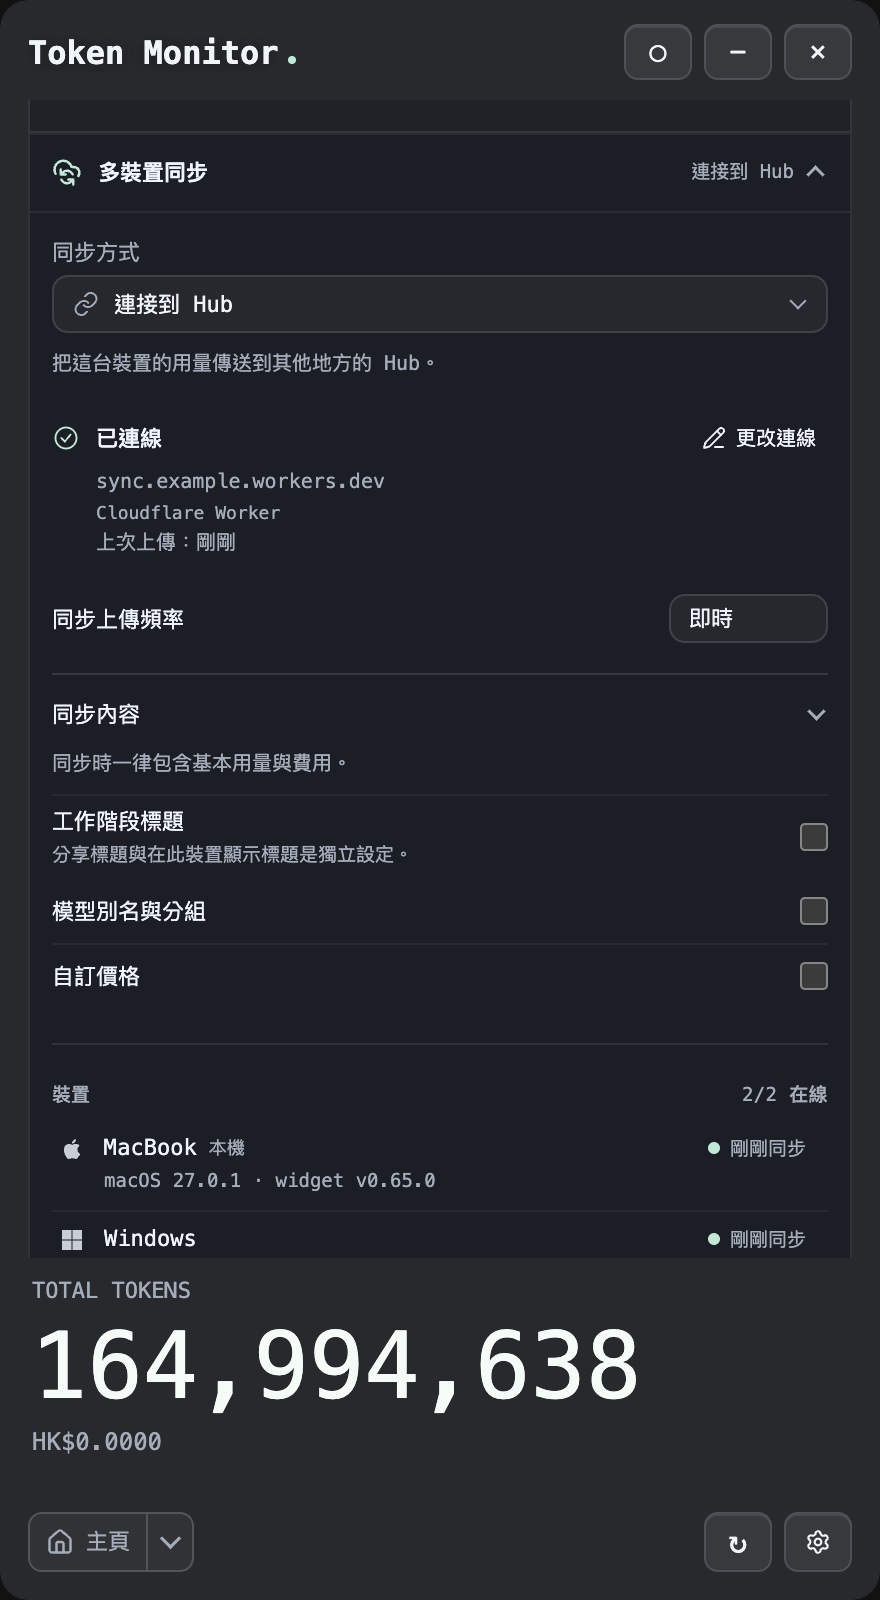
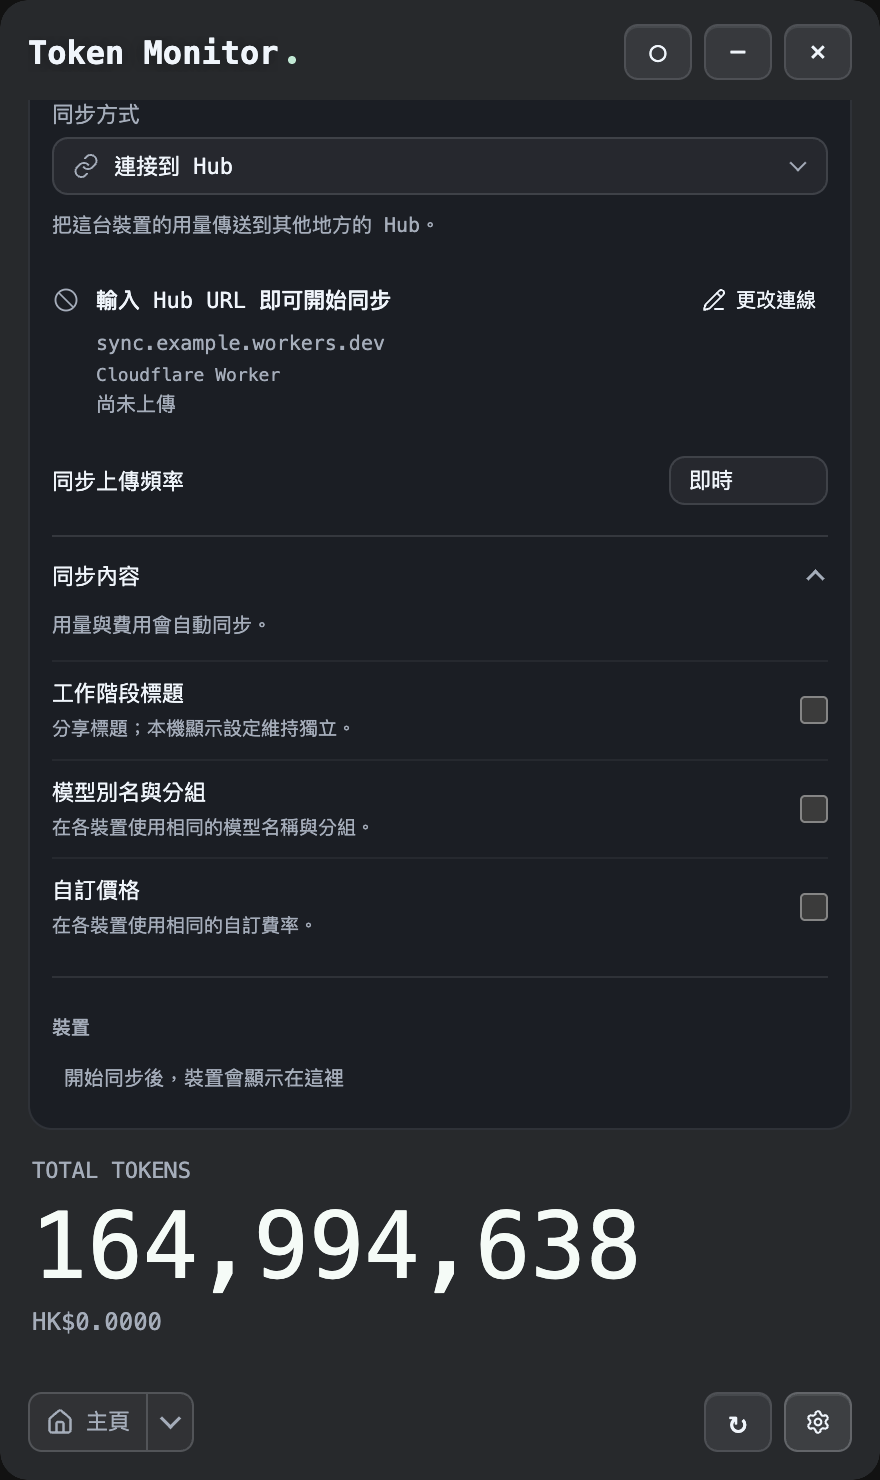
fix(sync): refine sync content settings layout

diff --git a/src/electron/renderer/i18n.js b/src/electron/renderer/i18n.js
@@ -56,7 +56,9 @@
       'settings.sync.hostWarning': 'The hub runs while Token Monitor is running. Quitting (not just closing the window) stops the hub for all connected devices.',
       'settings.sync.deviceId': 'Device ID',
       'settings.sync.deviceIdPlaceholder': 'auto (hostname)',
-      "settings.sync.content.basis": "Basic usage and cost are always included when syncing.",
+      "settings.sync.content.aliasesNote": "Use the same model names and groups on your devices.",
+      "settings.sync.content.pricingNote": "Use the same custom rates on your devices.",
+      "settings.sync.content.basis": "Usage and cost sync automatically.",
       "settings.sync.content.checking": "Checking sync options…",
       "settings.sync.content.chooseSource": "Choose the settings to share. Future edits will sync across devices.",
       "settings.sync.content.cleanupRetry": "Retry title removal",
@@ -72,16 +74,16 @@
       "settings.sync.content.modelAliases": "Model aliases and grouping",
       "settings.sync.content.noShared": "No shared settings yet. Use server settings to wait for a future shared edit, or publish this device's settings.",
       "settings.sync.content.publish": "Publish this device's settings",
-      "settings.sync.content.retry": "Reload sync status",
+      "settings.sync.content.retry": "Check again",
       "settings.sync.content.sessionTitles": "Session titles",
       "settings.sync.content.title": "Sync content",
-      "settings.sync.content.titleNote": "Sharing titles is separate from showing them on this device.",
+      "settings.sync.content.titleNote": "Share titles; local display stays independent.",
       "settings.sync.content.titleUnavailable": "This server does not allow session title sync. Ask its administrator to enable it.",
       "settings.sync.content.titleWarning": "Share session titles?",
       "settings.sync.content.titleWarningBody": "Send session titles to {destination}? Titles may reveal project, client or work information. The server administrator and devices with shared access can read them. Message bodies are never uploaded.",
       "settings.sync.content.unauthorized": "Could not authenticate with the server. Check the saved connection and reload.",
       "settings.sync.content.unreachable": "Could not reach the server. Check your connection and reload.",
-      "settings.sync.content.unsupported": "Optional content sync is unavailable on this server. Update the server, then reload.",
+      "settings.sync.content.unsupported": "Update the server to enable these options.",
       "settings.sync.content.useServer": "Use server settings",
       'settings.sync.uploadInterval': 'Sync upload frequency',
       'settings.sync.uploadInterval.live': 'Live',
@@ -1862,7 +1864,9 @@
       'settings.sync.hostWarning': 'Hub 只會在 Token Monitor 執行時運作。結束程式（不只是關閉視窗）會讓所有連線裝置的 Hub 停止。',
       'settings.sync.deviceId': '裝置 ID',
       'settings.sync.deviceIdPlaceholder': '自動（主機名稱）',
-      "settings.sync.content.basis": "同步時一律包含基本用量與費用。",
+      "settings.sync.content.aliasesNote": "在各裝置使用相同的模型名稱與分組。",
+      "settings.sync.content.pricingNote": "在各裝置使用相同的自訂費率。",
+      "settings.sync.content.basis": "用量與費用會自動同步。",
       "settings.sync.content.checking": "正在檢查同步選項…",
       "settings.sync.content.chooseSource": "選擇要分享的設定。之後的修改會在裝置之間同步。",
       "settings.sync.content.cleanupRetry": "重試移除標題",
@@ -1878,16 +1882,16 @@
       "settings.sync.content.modelAliases": "模型別名與分組",
       "settings.sync.content.noShared": "尚未有共享設定。使用伺服器設定以等待日後的共享修改，或發佈此裝置的設定。",
       "settings.sync.content.publish": "發佈此裝置的設定",
-      "settings.sync.content.retry": "重新載入同步狀態",
+      "settings.sync.content.retry": "重新檢查",
       "settings.sync.content.sessionTitles": "工作階段標題",
       "settings.sync.content.title": "同步內容",
-      "settings.sync.content.titleNote": "分享標題與在此裝置顯示標題是獨立設定。",
+      "settings.sync.content.titleNote": "分享標題；本機顯示設定維持獨立。",
       "settings.sync.content.titleUnavailable": "此伺服器未允許同步工作階段標題。請管理員啟用。",
       "settings.sync.content.titleWarning": "分享工作階段標題？",
       "settings.sync.content.titleWarningBody": "將工作階段標題傳送到 {destination}？標題可能透露專案、客戶或工作資訊。伺服器管理員及具有共享存取權的裝置均可讀取。訊息內文不會上傳。",
       "settings.sync.content.unauthorized": "無法通過伺服器驗證。請檢查已儲存的連線並重新載入。",
       "settings.sync.content.unreachable": "無法連接伺服器。請檢查連線並重新載入。",
-      "settings.sync.content.unsupported": "此伺服器未提供選用內容同步。請更新伺服器後重新載入。",
+      "settings.sync.content.unsupported": "更新伺服器後即可使用這些選項。",
       "settings.sync.content.useServer": "使用伺服器設定",
       'settings.sync.uploadInterval': '同步上傳頻率',
       'settings.sync.uploadInterval.live': '即時',
@@ -3668,7 +3672,9 @@
       'settings.sync.hostWarning': 'Hub 只会在 Token Monitor 运行时工作。退出程序（不只是关闭窗口）会让所有已连接设备的 Hub 停止。',
       'settings.sync.deviceId': '设备 ID',
       'settings.sync.deviceIdPlaceholder': '自动（主机名）',
-      "settings.sync.content.basis": "同步时始终包含基本用量与费用。",
+      "settings.sync.content.aliasesNote": "在各设备使用相同的模型名称与分组。",
+      "settings.sync.content.pricingNote": "在各设备使用相同的自定义费率。",
+      "settings.sync.content.basis": "用量与费用会自动同步。",
       "settings.sync.content.checking": "正在检查同步选项…",
       "settings.sync.content.chooseSource": "选择要共享的设置。之后的修改会在设备之间同步。",
       "settings.sync.content.cleanupRetry": "重试移除标题",
@@ -3684,16 +3690,16 @@
       "settings.sync.content.modelAliases": "模型别名与分组",
       "settings.sync.content.noShared": "尚无共享设置。使用服务器设置以等待之后的共享修改，或发布此设备的设置。",
       "settings.sync.content.publish": "发布此设备的设置",
-      "settings.sync.content.retry": "重新加载同步状态",
+      "settings.sync.content.retry": "重新检查",
       "settings.sync.content.sessionTitles": "会话标题",
       "settings.sync.content.title": "同步内容",
-      "settings.sync.content.titleNote": "共享标题与在此设备显示标题是独立设置。",
+      "settings.sync.content.titleNote": "共享标题；本机显示设置保持独立。",
       "settings.sync.content.titleUnavailable": "此服务器未允许同步会话标题。请管理员启用。",
       "settings.sync.content.titleWarning": "共享会话标题？",
       "settings.sync.content.titleWarningBody": "将会话标题发送到 {destination}？标题可能透露项目、客户或工作信息。服务器管理员及具有共享访问权限的设备均可读取。消息正文不会上传。",
       "settings.sync.content.unauthorized": "无法通过服务器验证。请检查已保存的连接并重新加载。",
       "settings.sync.content.unreachable": "无法连接服务器。请检查连接并重新加载。",
-      "settings.sync.content.unsupported": "此服务器未提供可选内容同步。请更新服务器后重新加载。",
+      "settings.sync.content.unsupported": "更新服务器后即可使用这些选项。",
       "settings.sync.content.useServer": "使用服务器设置",
       'settings.sync.uploadInterval': '同步上传频率',
       'settings.sync.uploadInterval.live': '实时',
@@ -6852,7 +6858,9 @@
       'settings.sync.copyUrl': '{url} 복사',
       'settings.sync.deviceId': '기기 ID',
       'settings.sync.deviceIdPlaceholder': '자동 (호스트명)',
-      "settings.sync.content.basis": "동기화에는 기본 사용량과 비용이 항상 포함됩니다.",
+      "settings.sync.content.aliasesNote": "기기에서 같은 모델 이름과 그룹을 사용합니다.",
+      "settings.sync.content.pricingNote": "기기에서 같은 사용자 지정 요금을 사용합니다.",
+      "settings.sync.content.basis": "사용량과 비용은 자동으로 동기화됩니다.",
       "settings.sync.content.checking": "동기화 옵션 확인 중…",
       "settings.sync.content.chooseSource": "공유할 설정을 선택하세요. 이후 변경 사항은 기기 간에 동기화됩니다.",
       "settings.sync.content.cleanupRetry": "제목 삭제 다시 시도",
@@ -6868,16 +6876,16 @@
       "settings.sync.content.modelAliases": "모델 별칭 및 그룹화",
       "settings.sync.content.noShared": "아직 공유된 설정이 없습니다. 서버 설정을 사용해 향후 공유 변경을 기다리거나 이 기기의 설정을 게시하세요.",
       "settings.sync.content.publish": "이 기기의 설정 게시",
-      "settings.sync.content.retry": "동기화 상태 새로고침",
+      "settings.sync.content.retry": "다시 확인",
       "settings.sync.content.sessionTitles": "세션 제목",
       "settings.sync.content.title": "동기화할 내용",
-      "settings.sync.content.titleNote": "제목 공유와 이 기기에서 제목을 표시하는 설정은 별개입니다.",
+      "settings.sync.content.titleNote": "제목 공유와 이 기기의 표시 설정은 별개입니다.",
       "settings.sync.content.titleUnavailable": "이 서버는 세션 제목 동기화를 허용하지 않습니다. 관리자에게 활성화를 요청하세요.",
       "settings.sync.content.titleWarning": "세션 제목을 공유할까요?",
       "settings.sync.content.titleWarningBody": "세션 제목을 {destination}에 전송할까요? 제목에 프로젝트, 고객 또는 업무 정보가 포함될 수 있습니다. 서버 관리자와 공유 접근 권한이 있는 기기에서 읽을 수 있습니다. 메시지 본문은 업로드되지 않습니다.",
       "settings.sync.content.unauthorized": "서버 인증에 실패했습니다. 저장된 연결 정보를 확인한 후 새로고침하세요.",
       "settings.sync.content.unreachable": "서버에 연결할 수 없습니다. 연결을 확인한 후 새로고침하세요.",
-      "settings.sync.content.unsupported": "이 서버에서는 선택 항목 동기화를 사용할 수 없습니다. 서버를 업데이트한 후 새로고침하세요.",
+      "settings.sync.content.unsupported": "서버를 업데이트하면 이 옵션을 사용할 수 있습니다.",
       "settings.sync.content.useServer": "서버 설정 사용",
       'settings.sync.uploadInterval': '동기화 업로드 빈도',
       'settings.sync.uploadInterval.live': '실시간',
@@ -8658,7 +8666,9 @@
       'settings.sync.copyUrl': '{url}をコピー',
       'settings.sync.deviceId': 'デバイスID',
       'settings.sync.deviceIdPlaceholder': '自動（ホスト名）',
-      "settings.sync.content.basis": "同期には基本的な使用量と費用が常に含まれます。",
+      "settings.sync.content.aliasesNote": "デバイス間で同じモデル名とグループを使います。",
+      "settings.sync.content.pricingNote": "デバイス間で同じカスタム料金を使います。",
+      "settings.sync.content.basis": "使用量と費用は自動で同期されます。",
       "settings.sync.content.checking": "同期オプションを確認中…",
       "settings.sync.content.chooseSource": "共有する設定を選んでください。今後の変更はデバイス間で同期されます。",
       "settings.sync.content.cleanupRetry": "タイトルの削除を再試行",
@@ -8674,16 +8684,16 @@
       "settings.sync.content.modelAliases": "モデルの別名とグループ化",
       "settings.sync.content.noShared": "共有設定はまだありません。サーバー設定を使用して今後の共有変更を待つか、このデバイスの設定を公開してください。",
       "settings.sync.content.publish": "このデバイスの設定を公開",
-      "settings.sync.content.retry": "同期状態を再読み込み",
+      "settings.sync.content.retry": "再確認",
       "settings.sync.content.sessionTitles": "セッションタイトル",
       "settings.sync.content.title": "同期する内容",
-      "settings.sync.content.titleNote": "タイトルの共有と、このデバイスでのタイトル表示は別の設定です。",
+      "settings.sync.content.titleNote": "タイトルの共有と、このデバイスの表示設定は別です。",
       "settings.sync.content.titleUnavailable": "このサーバーではセッションタイトルの同期が許可されていません。管理者に有効化を依頼してください。",
       "settings.sync.content.titleWarning": "セッションタイトルを共有しますか？",
       "settings.sync.content.titleWarningBody": "セッションタイトルを {destination} に送信しますか？タイトルからプロジェクト、顧客、業務の情報がわかる場合があります。サーバー管理者と共有アクセス権を持つデバイスから読むことができます。メッセージ本文はアップロードされません。",
       "settings.sync.content.unauthorized": "サーバーで認証できませんでした。保存済みの接続設定を確認して再読み込みしてください。",
       "settings.sync.content.unreachable": "サーバーに接続できません。接続を確認して再読み込みしてください。",
-      "settings.sync.content.unsupported": "このサーバーでは追加項目を同期できません。サーバーを更新してから再読み込みしてください。",
+      "settings.sync.content.unsupported": "サーバーを更新すると、これらの項目を同期できます。",
       "settings.sync.content.useServer": "サーバー設定を使用",
       'settings.sync.uploadInterval': '同期アップロード頻度',
       'settings.sync.uploadInterval.live': 'ライブ',

diff --git a/src/electron/renderer/index.html b/src/electron/renderer/index.html
@@ -1483,18 +1483,20 @@
             <details id="syncContentDetails" class="sync-content-details">
               <summary><span data-i18n="settings.sync.content.title">Sync content</span><span class="settings-section-disclosure" aria-hidden="true"></span></summary>
               <div class="sync-content-body">
-                <p class="settings-note" data-i18n="settings.sync.content.basis">Basic usage and cost are always included when syncing.</p>
+                <p class="settings-note" data-i18n="settings.sync.content.basis">Usage and cost sync automatically.</p>
                 <p id="syncContentLocalNote" class="settings-note" data-i18n="settings.sync.content.localNote">Optional content sync is available when connected to or hosting a hub.</p>
-                <div id="syncContentOptions" hidden>
-                  <label id="syncContentHostRow" class="settings-item checkbox-label" hidden><span class="settings-item-text"><span class="settings-item-title" data-i18n="settings.sync.content.hostPermission">Allow devices to sync session titles</span><span class="settings-item-desc" data-i18n="settings.sync.content.hostNote">Controls what this hub accepts. Each device chooses separately whether to send titles.</span></span><input id="syncContentHostPermission" type="checkbox" /></label>
-                  <label class="settings-item checkbox-label"><span class="settings-item-text"><span class="settings-item-title" data-i18n="settings.sync.content.sessionTitles">Session titles</span><span class="settings-item-desc" data-i18n="settings.sync.content.titleNote">Sharing titles is separate from showing them on this device.</span></span><input id="syncContentsessionTitles" type="checkbox" aria-describedby="syncContentTitleUnavailable syncContentCleanup" disabled /></label>
+                <div id="syncContentNotice" class="sync-content-notice" hidden>
+                  <p id="syncContentStatus" class="settings-note" role="status" aria-live="polite" hidden></p>
+                  <button id="syncContentRetry" class="sync-content-retry" type="button" data-i18n="settings.sync.content.retry" hidden>Check again</button>
+                </div>
+                <div id="syncContentOptions" class="sync-content-options" hidden>
+                  <label id="syncContentHostRow" class="settings-item checkbox-label sync-content-option" hidden><span class="settings-item-text"><span class="settings-item-title" data-i18n="settings.sync.content.hostPermission">Allow devices to sync session titles</span><span class="settings-item-desc" data-i18n="settings.sync.content.hostNote">Controls what this hub accepts. Each device chooses separately whether to send titles.</span></span><input id="syncContentHostPermission" type="checkbox" /></label>
+                  <label class="settings-item checkbox-label sync-content-option"><span class="settings-item-text"><span class="settings-item-title" data-i18n="settings.sync.content.sessionTitles">Session titles</span><span class="settings-item-desc" data-i18n="settings.sync.content.titleNote">Share titles; local display stays independent.</span></span><input id="syncContentsessionTitles" type="checkbox" aria-describedby="syncContentStatus syncContentTitleUnavailable syncContentCleanup" disabled /></label>
                   <p id="syncContentTitleUnavailable" class="settings-note" data-i18n="settings.sync.content.titleUnavailable" hidden>This server does not allow session title sync. Ask its administrator to enable it.</p>
-                  <label class="settings-item checkbox-label"><span class="settings-item-text"><span class="settings-item-title" data-i18n="settings.sync.content.modelAliases">Model aliases and grouping</span></span><input id="syncContentmodelAliases" type="checkbox" disabled /></label>
-                  <label class="settings-item checkbox-label"><span class="settings-item-text"><span class="settings-item-title" data-i18n="settings.sync.content.customPricing">Custom pricing</span></span><input id="syncContentcustomPricing" type="checkbox" disabled /></label>
+                  <label class="settings-item checkbox-label sync-content-option"><span class="settings-item-text"><span class="settings-item-title" data-i18n="settings.sync.content.modelAliases">Model aliases and grouping</span><span class="settings-item-desc" data-i18n="settings.sync.content.aliasesNote">Use the same model names and groups on your devices.</span></span><input id="syncContentmodelAliases" type="checkbox" aria-describedby="syncContentStatus" disabled /></label>
+                  <label class="settings-item checkbox-label sync-content-option"><span class="settings-item-text"><span class="settings-item-title" data-i18n="settings.sync.content.customPricing">Custom pricing</span><span class="settings-item-desc" data-i18n="settings.sync.content.pricingNote">Use the same custom rates on your devices.</span></span><input id="syncContentcustomPricing" type="checkbox" aria-describedby="syncContentStatus" disabled /></label>
                 </div>
                 <div id="syncContentCleanup" class="sync-content-cleanup" hidden><p class="settings-note hub-warning" data-i18n="settings.sync.content.cleanup_pending">Title sync is off, but previously shared titles still need to be removed from the server. Retry when connected.</p><div class="settings-actions"><button id="syncContentCleanupRetry" type="button" data-i18n="settings.sync.content.cleanupRetry">Retry title removal</button></div></div>
-                <p id="syncContentStatus" class="settings-note" role="status" aria-live="polite" hidden></p>
-                <div class="settings-actions"><button id="syncContentRetry" type="button" data-i18n="settings.sync.content.retry" hidden>Reload sync status</button></div>
               </div>
             </details>
             <div id="syncDevicePanel" class="sync-panel" hidden>

diff --git a/src/electron/renderer/styles.css b/src/electron/renderer/styles.css
@@ -1719,7 +1719,18 @@ span.settings-note.settings-item-desc {
 .sync-content-details > summary::-webkit-details-marker { display: none; }
 .sync-content-details[open] > summary .settings-section-disclosure { transform: rotate(180deg); }
 .sync-content-details > summary:focus-visible { outline: 1px solid var(--accent); outline-offset: 3px; border-radius: 3px; }
-.sync-content-body { display: grid; gap: 8px; padding-top: 6px; }
+.sync-content-body { display: grid; gap: 10px; padding-top: 6px; }
+.sync-content-options { min-width: 0; }
+.settings-panel .sync-content-options .sync-content-option { flex-wrap: nowrap; align-items: center; min-height: 44px; padding: 8px 0; box-sizing: border-box; }
+.sync-content-options > .sync-content-option ~ .sync-content-option { border-top: 1px solid rgba(var(--line-rgb), 0.06); }
+.sync-content-option .settings-item-text { flex: 1 1 0; gap: 3px; }
+.sync-content-option:has(> input:disabled) .settings-item-text { opacity: 0.5; }
+.sync-content-notice { display: flex; align-items: flex-start; gap: 10px; padding: 8px 10px; border-radius: 6px; background: rgba(var(--overlay-rgb), 0.04); }
+.sync-content-notice > .settings-note { flex: 1 1 0; min-width: 0; }
+.settings-panel button.sync-content-retry { flex: 0 0 auto; margin: 0; padding: 0; min-height: 0; border: 0; border-radius: 2px; background: transparent; color: var(--accent); font: inherit; font-size: 10px; line-height: 1.45; cursor: pointer; }
+.settings-panel button.sync-content-retry:hover { text-decoration: underline; background: transparent; }
+.settings-panel button.sync-content-retry:focus-visible { outline: 1px solid var(--accent); outline-offset: 3px; }
+.settings-panel button.sync-content-retry:disabled { opacity: 0.5; cursor: default; }
 .sync-content-cleanup { display: grid; gap: 6px; }
 .settings-panel .sync-content-body .checkbox-label > input[type="checkbox"] { appearance: auto; width: 14px; height: 14px; flex: 0 0 14px; margin: 0; border: initial; background: initial; accent-color: var(--accent); }
 .settings-panel .sync-content-body .checkbox-label > input[type="checkbox"]::before { content: none; }

diff --git a/tests/electron/syncContentForm.test.js b/tests/electron/syncContentForm.test.js
@@ -92,6 +92,7 @@ test('all optional checkboxes default off and stay disabled until a supported st
   }
   await f.form.refresh();
   assert.equal(f.get('modelAliases').disabled, false);
+  assert.equal(f.get('Notice').hidden, true);
   f.push(status({ serverTitlesEnabled: false }));
   assert.equal(f.get('sessionTitles').disabled, true);
   assert.equal(f.get('TitleUnavailable').hidden, false);
@@ -99,6 +100,7 @@ test('all optional checkboxes default off and stay disabled until a supported st
   assert.equal(f.get('modelAliases').disabled, true);
   assert.match(f.get('Status').textContent, /Update the server/);
   assert.equal(f.get('Retry').hidden, false);
+  assert.equal(f.get('Notice').hidden, false);
 });
 
 for (const cancel of ['Cancel', 'escape']) test(`title consent supports ${cancel}, focus and a fresh destination without saving`, async () => {
@@ -153,6 +155,7 @@ test('failed title cleanup applies the confirmed off status and keeps the remova
   assert.equal(f.get('sessionTitles').checked, false);
   assert.equal(f.get('sessionTitles').disabled, true);
   assert.equal(f.get('Cleanup').hidden, false);
+  assert.equal(f.get('Notice').hidden, true, 'cleanup keeps its dedicated warning without a duplicate notice');
   assert.match(f.get('Status').textContent, /previously shared titles/);
   await f.get('CleanupRetry').click();
   assert.equal(f.calls.cleanup, 1);

diff --git a/src/electron/renderer/syncContentForm.js b/src/electron/renderer/syncContentForm.js
@@ -64,6 +64,7 @@
       const issue = message || (shared && (!status || status.error) ? (status ? errorKey(status.error) : 'checking') : '');
       el('Status').textContent = issue ? text(issue) : '';
       el('Status').hidden = !issue;
+      el('Notice').hidden = !issue || issue === 'cleanup_pending';
       el('DialogStatus').textContent = message ? text(message) : '';
       el('DialogStatus').hidden = !message;
       el('Retry').hidden = !shared || !issue || issue === 'checking' || issue === 'cleanup_pending';
